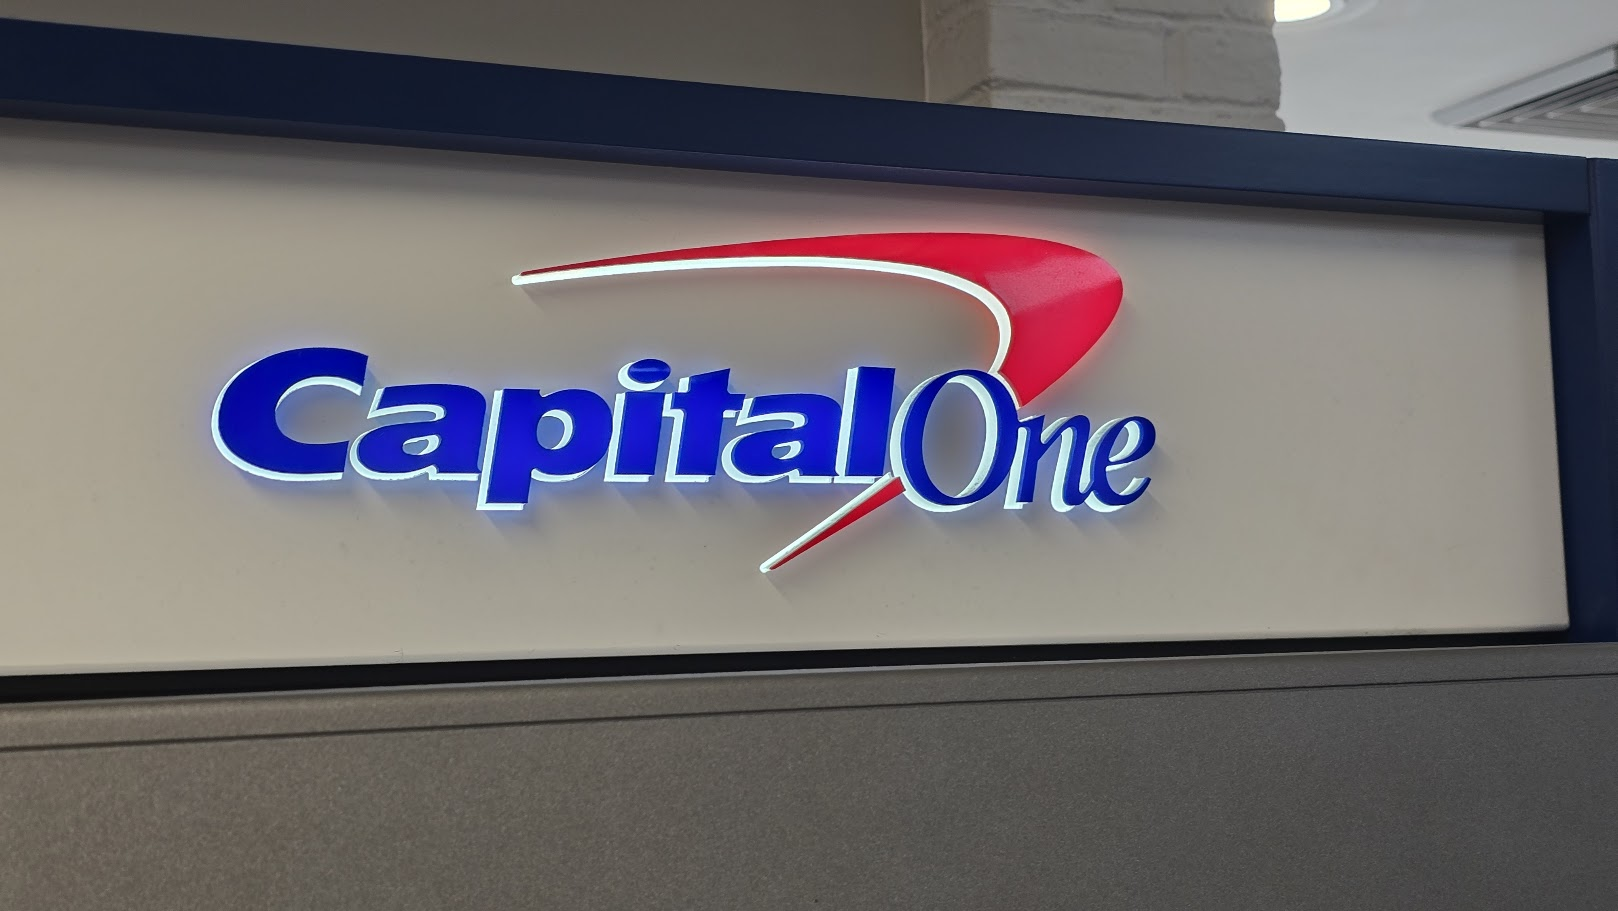
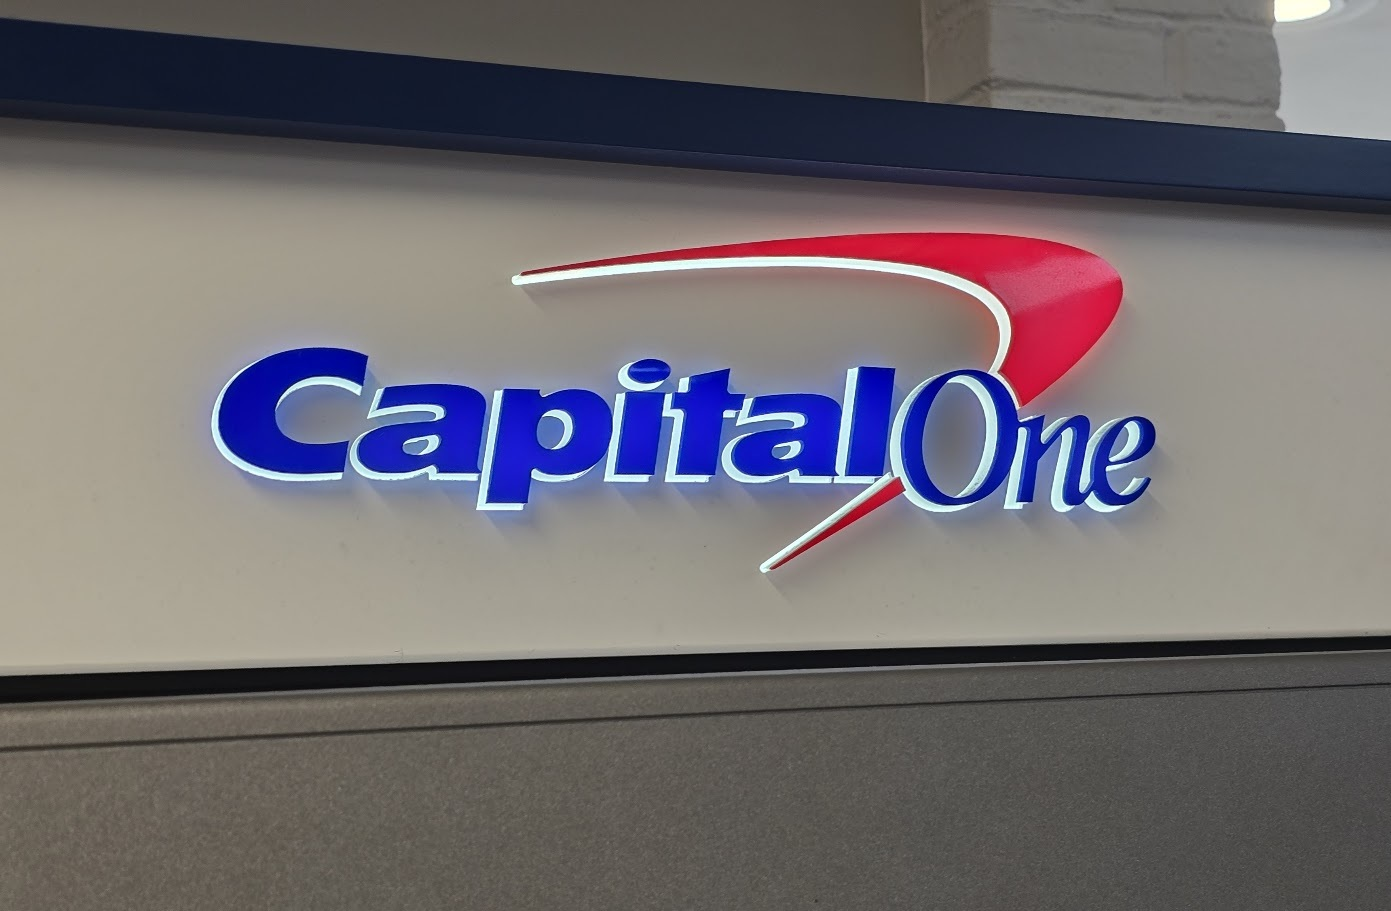
edited some gallery images

diff --git a/app/gallery/page.tsx b/app/gallery/page.tsx
@@ -18,25 +18,6 @@ export default function GalleryPage() {
       alt: file.replace(/[-_]/g, " ").replace(/\.(jpg|jpeg|png|webp)$/i, ""),
     }))
 
-  // Per-image cropping / zoom overrides
-  const imageOverrides: Record<
-    string,
-    { extraClass?: string; objectPosition?: string }
-  > = {
-    // Replace these keys with real filenames from /public/signs
-    "/signs/3d-home-center.jpg": {
-      extraClass: "scale-90",
-      objectPosition: "center center",
-    },
-    "/signs/black-friday.jpg": {
-      extraClass: "scale-90",
-      objectPosition: "center top",
-    },
-    "/signs/capital-one.jpg": {
-      objectPosition: "left center"
-    },
-  }
-
   return (
     <main>
       {/* Hero Section */}
@@ -60,7 +41,6 @@ export default function GalleryPage() {
         <div className="container mx-auto px-4">
           <div className="grid grid-cols-1 sm:grid-cols-2 md:grid-cols-3 lg:grid-cols-4 gap-6">
             {galleryImages.map((image) => {
-              const override = imageOverrides[image.src] ?? {}
 
               return (
                 <div
@@ -71,14 +51,7 @@ export default function GalleryPage() {
                     src={image.src}
                     alt={image.alt}
                     fill
-                    className={`object-cover transition-transform duration-300 group-hover:scale-105 ${
-                      override.extraClass ?? ""
-                    }`}
-                    style={
-                      override.objectPosition
-                        ? { objectPosition: override.objectPosition }
-                        : undefined
-                    }
+                    className="object-cover transition-transform duration-300 group-hover:scale-105"
                   />
                 </div>
               )
